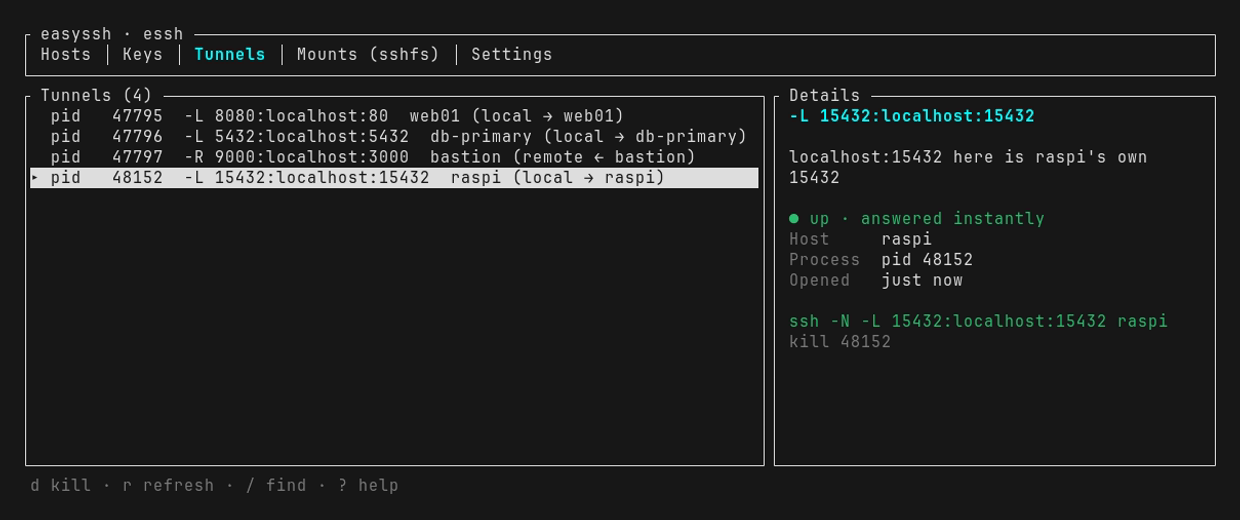
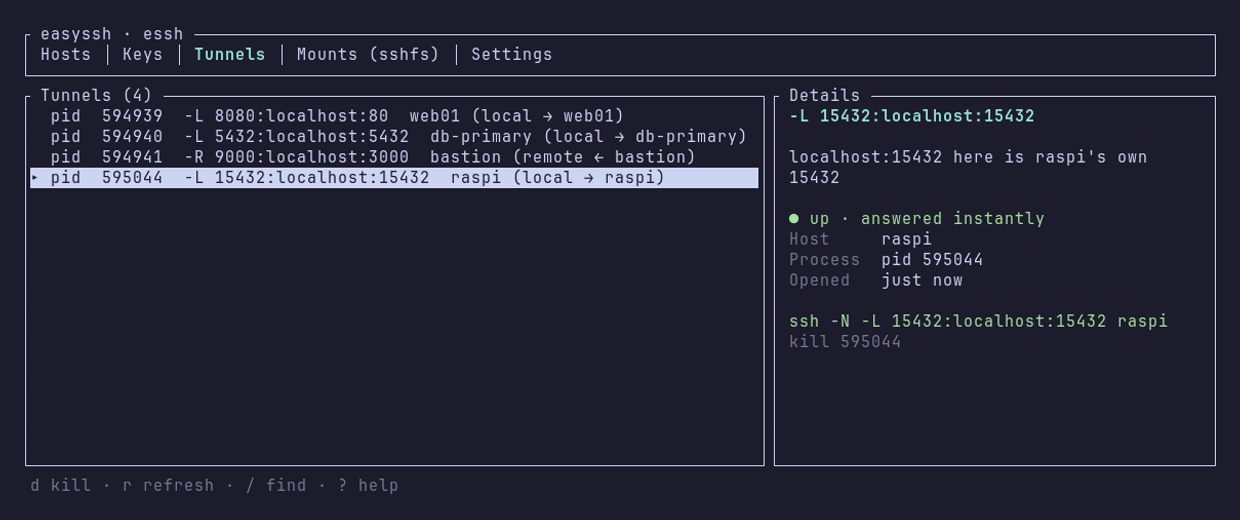
chore: standardise the demo rigs and re-render every readme asset

diff --git a/AGENTS.md b/AGENTS.md
@@ -21,6 +21,9 @@ Working brief for an AI coding agent, not documentation for people (the README c
 - Fix the root cause, and if a workaround must ship say the word "workaround" out loud so a silent patch never passes as a real fix; the same goes for lints, where an `#[allow]` is never the answer and the code it points at gets fixed or deleted.
 - `TODO-LIST.md` (gitignored) holds one-line ideas, and the line is deleted when the idea ships.
 - `demo/` holds the screenshot and GIF rig: `stage.sh` builds a fake `~/.ssh` in `demo/home` (fake hosts, generated keys, seeded history, placeholder tunnels) with HOME and every XDG variable redirected into it, and the VHS tapes render `readme-assets/` from it. A tunnel, a mount and a login cannot be faked, so `raspi` points at a real machine only when `ESSH_DEMO_HOST` is set; nothing personal is ever in the repo. `stage.sh down` unmounts anything under the stage before deleting it and refuses if that fails, because a recursive delete walks straight through a mountpoint and onto the remote side - that is not hypothetical, it cost a real machine its dotfiles.
+- The demo rig is standardised across every crate in this directory, and the three parts that make the frames match must stay identical: the staged shell wears the invented `user@host` prompt written by `write_demorc`, every tape sets `Set Theme "Catppuccin Mocha"` (VHS's own default is a near-black that is harsher to read than Catppuccin's `#1e1e2e`), and every tape sets `Set FontFamily "JetBrainsMono NF"`. It is not about hiding a username, which is no leak - the pictures are a build output, and one that comes out different on every machine that regenerates it is not reproducible.
+- Everything staged runs under `env -i` with a complete allowlist, never the real environment plus overrides, because an exported variable nobody thought of is exactly how a real config dir, a real endpoint or a real key ends up in a frame. The rig also writes only inside the stage, so nothing of the renderer's is touched on disk.
+- Teardown goes through `assert_safe_to_delete`, word-for-word the same function in every crate's rig: the stage path must be absolute, must not be a system directory or the renderer's home, must resolve through its symlinks to a tree carrying the marker file the build stamped, and must have nothing mounted under it, with `rm -rf --one-file-system` behind that. Test the refusals after touching them, never just the happy path - an sshfs mount inside a staged home, torn down with a plain `rm -rf`, has already deleted the dotfiles on the machine at the far end.
 - `.nocommit/` (gitignored) holds reference material used only to inform work here - other projects, notes, drafts - and never ships; keep it out of anything user-facing (commit messages, code, comments, README, `--help`), since a reference to material nobody outside this machine can see means nothing to them and just clutters the record.
 - Tests never touch the real `~/.ssh`: use `App::empty()` and the `sshcfg` `*_in(path, ...)` helpers, which keep everything on temp files and in-memory data.
 - Do not grow the CLI. It holds connect, `ls`, `cp` and `update` only, all things faster to type than to click. Anything a user would have to look up belongs in the TUI, which is the whole point of the tool.

diff --git a/README.md b/README.md
@@ -6,6 +6,8 @@
 stop typing flags, make ssh easy - hosts, keys, tunnels, mounts and file copies in one CLI + TUI
 <!-- desc:end -->
 
+## Install
+
 ```sh
 cargo install easyssh          # installs the `essh` command
 ```
